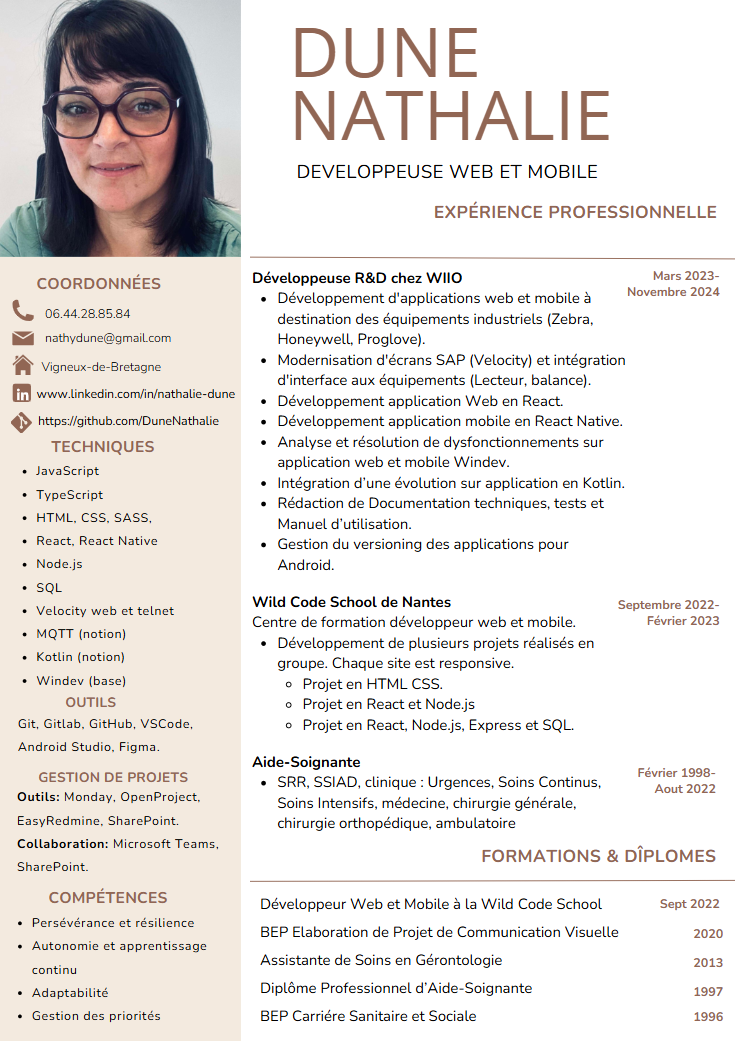
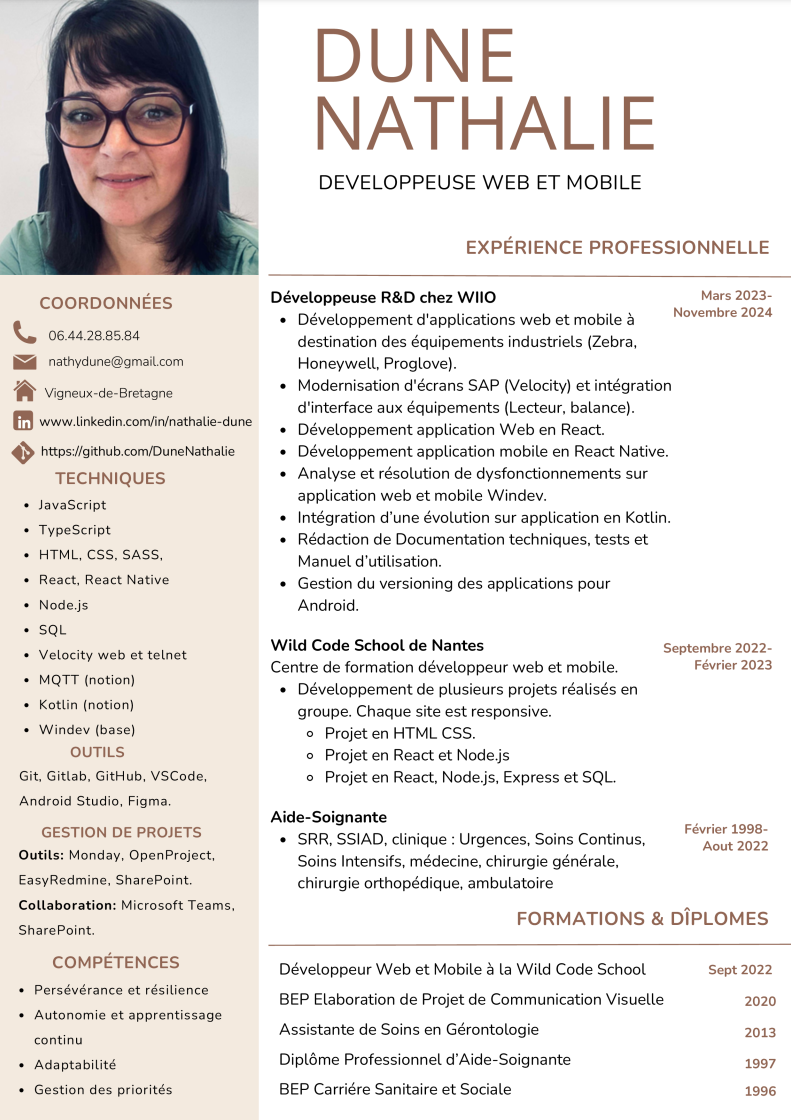
add profile picture

diff --git a/src/pages/Home/Home.tsx b/src/pages/Home/Home.tsx
@@ -4,8 +4,8 @@ import React from 'react';
 import Footer from '../../components/Footer/Footer';
 
 import Styles from './Home.module.scss';
-import ByTheWay from '../../components/Home/ByTheWay/ByTheWay';
 import Profil from '../../components/Home/Profil/Profil';
+import Description from '../../components/Home/Description/Description';
 
 
 
@@ -14,7 +14,7 @@ const Home: React.FC = () => {
     return (
         <div className={Styles.container}>
             <Profil />
-            <ByTheWay />
+            <Description />
             <Footer type='home' />
         </div>
     );

diff --git a/src/components/Home/Profil/Profil.module.scss b/src/components/Home/Profil/Profil.module.scss
@@ -10,10 +10,30 @@
     flex-direction: column;
     text-align: center;
     max-height: 20vh;
+
+    .username {
+        color: colors.$brown;
+        font-family: values.$fontTitle;
+        font-size: 45px;
+        text-align: center;
+
+        p {
+            margin-bottom: 0;
+            text-align: center;
+        }
+    }
 }
 
 @media screen and (max-width: 700px) {
     .container {
         font-size: 28px;
+
+        .username {
+            p {
+                font-size: 28px;
+                margin-top: 10px;
+            }
+
+        }
     }
 }

diff --git a/src/components/Home/Profil/Profil.tsx b/src/components/Home/Profil/Profil.tsx
@@ -1,13 +1,14 @@
 import React from 'react';
 
 import Styles from './Profil.module.scss';
-import UserName from '../UserName/UserName';
 import Title from '../../Title/Title';
 
 const Profil: React.FC = () => {
     return (
         <div className={Styles.container}>
-        <UserName />
+          <div className={Styles.username}>
+            <p>Nathalie Dune</p>
+        </div>
         <Title title="Développeuse d'application Web et Mobile" />
       </div>
     );

diff --git a/src/components/Button/Button.module.scss b/src/components/Button/Button.module.scss
@@ -1,6 +1,7 @@
 @use '../../styles/colors';
 
 button {
+    box-shadow: 0 0 5px rgba(0, 0, 0, 0.5);
     width: 120px;
     height: 40px;
     font-size: 12px;
@@ -13,9 +14,14 @@ button {
 }
 
 .download {
-    background-color: colors.$green;
-    color: colors.$white;
-    width: 150px;
+   background-color: colors.$green;
+   color: colors.$white;
+   width: 150px;
+   
+   &:hover{
+        background-color: colors.$greenDark;
+    }
+
 } 
 
 .nav {

diff --git a/src/components/Home/Description/Description.tsx b/src/components/Home/Description/Description.tsx
@@ -1,0 +1,15 @@
+import React from 'react';
+
+import Styles from './Description.module.scss';
+import Img from '../Img/Img';
+import ByTheWay from '../ByTheWay/ByTheWay';
+
+const Description: React.FC = () => {
+    return (
+        <div className={Styles.container}>
+            <Img/>
+            <ByTheWay/>
+        </div>
+    );
+};
+export default Description;

diff --git a/src/components/Home/Img/Img.module.scss b/src/components/Home/Img/Img.module.scss
@@ -1,0 +1,20 @@
+.container {
+    width: 25%;
+    display: flex;
+    justify-content: center;
+
+    img {
+        border-radius: 10px;
+        box-shadow: 0 0 10px rgba(0, 0, 0, 0.5);
+        overflow: hidden;
+        width: 100%;
+    }
+}
+
+@media screen and (max-width: 700px) {
+    .container {
+        width: 95%;
+        margin: auto;
+    }
+    
+}

diff --git a/src/components/Home/Img/Img.tsx b/src/components/Home/Img/Img.tsx
@@ -1,0 +1,13 @@
+import React from 'react';
+
+import Styles from './Img.module.scss';
+import Nath from '../../../assets/Nath.png';
+
+const Img: React.FC = () => {
+    return (
+        <div className={Styles.container}>
+          <img src={Nath} alt="photo de profil" /> 
+        </div>
+    );
+};
+export default Img;

diff --git a/src/components/Home/Description/Description.module.scss b/src/components/Home/Description/Description.module.scss
@@ -1,0 +1,14 @@
+.container{
+    display: flex;
+    gap:10px;
+    padding: 0 30px;
+}
+
+@media screen and (max-width: 700px) {
+    .container{
+        flex-direction: column;
+        gap:0;
+        padding: 10px 10px 0 10px;
+    }
+
+}

diff --git a/src/components/Curriculum/CvImg/CvImg.module.scss b/src/components/Curriculum/CvImg/CvImg.module.scss
@@ -4,6 +4,7 @@
 
     img {
         width: 100%;
+        box-shadow: 0 0 10px rgba(0, 0, 0, 0.5);
     }
 
 }

diff --git a/src/styles/_colors.scss b/src/styles/_colors.scss
@@ -4,3 +4,4 @@ $brownLight:#E0E0D5;
 $brown:#C48B7A;
 $brownDark:#887471;
 $green:#4CAF50;
+$greenDark:#3E8E41;
